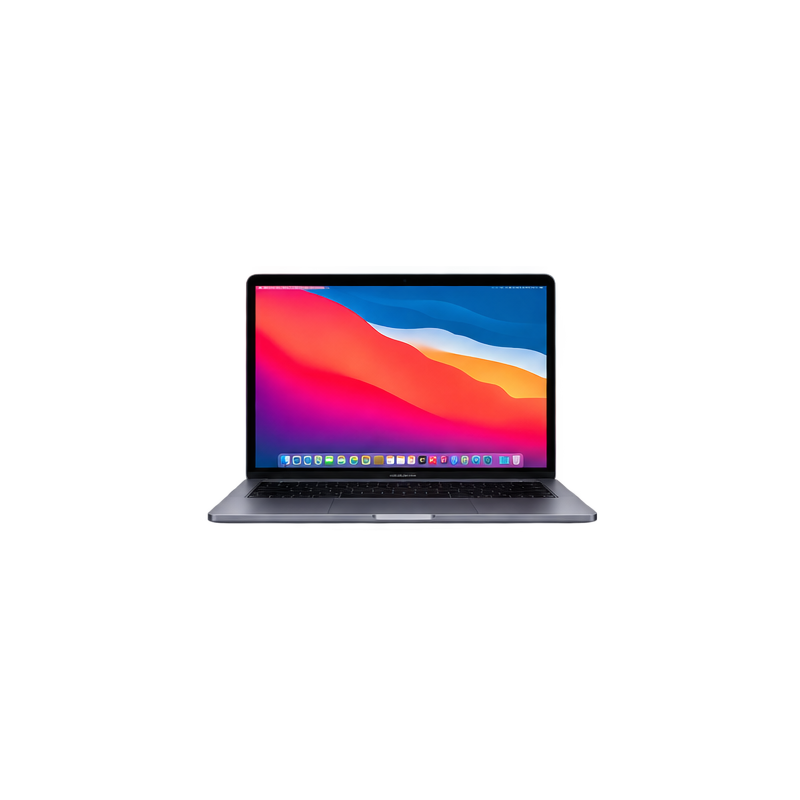
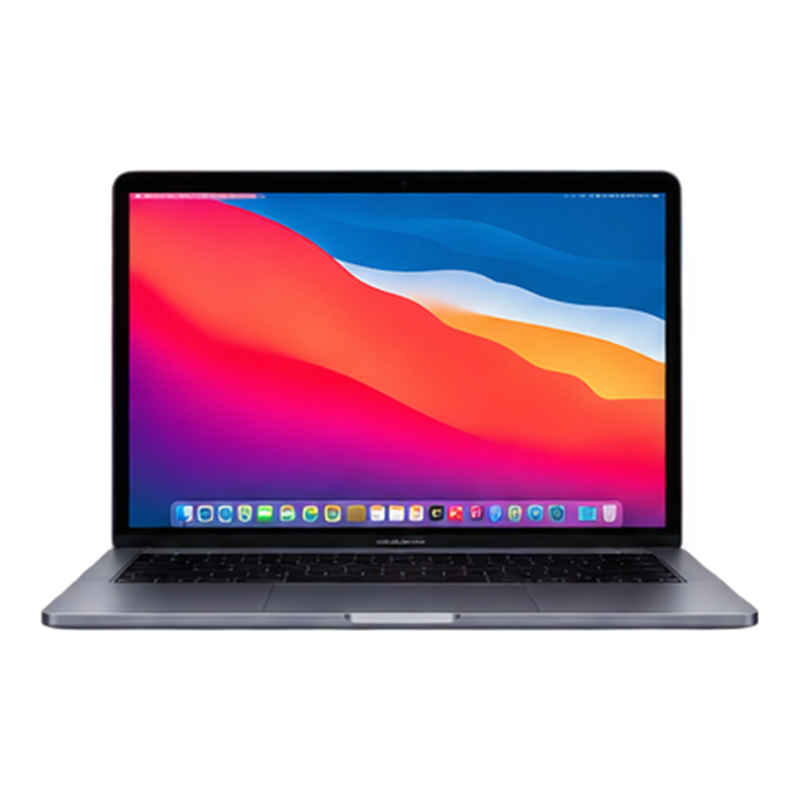
fix(mac): asignar y optimizar imagen para MacBook Pro 13 M1 512GB (/mac/macbook13-m12020-512.png)

diff --git a/lib/data.ts b/lib/data.ts
@@ -21,7 +21,7 @@ export const MACBOOKS = [
     screen: "Pantalla Retina de 13.3\"",
     battery: "Hasta 20 horas de batería",
     ports: "2 puertos Thunderbolt / USB 4",
-    image: "/mac/macbook13-m12020.png"
+    image: "/mac/macbook13-m12020-512.png"
   },
   {
     slug: "macbook-pro-16-m1-2021-512gb",
